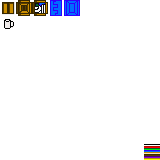
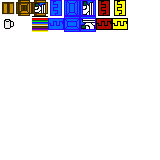
more blue bin tiles

Changed region(s): [[0.1875, 0.0, 0.8125, 0.2188], [0.875, 0.875, 1.0, 1.0]]

diff --git a/todo.md b/todo.md
@@ -76,9 +76,9 @@
 * ( done ) - when a person is destroyed there on hand items should also be destroyed
 * ( done ) - fix bug where items to not get added to donation groups property
 * ( done ) - see about fixing bug where donator on hand items get added to the maps donation group when map is switched
+* ( done ) - blue bin tiles
 
   ARTWORK:
-* (      ) - blue bin tiles
 
   DONATIONS, ITEMS DATABASE, INVENTORY:
 * (      ) - A box item can just have a count of items in it, and then the items can be generated when clicked
